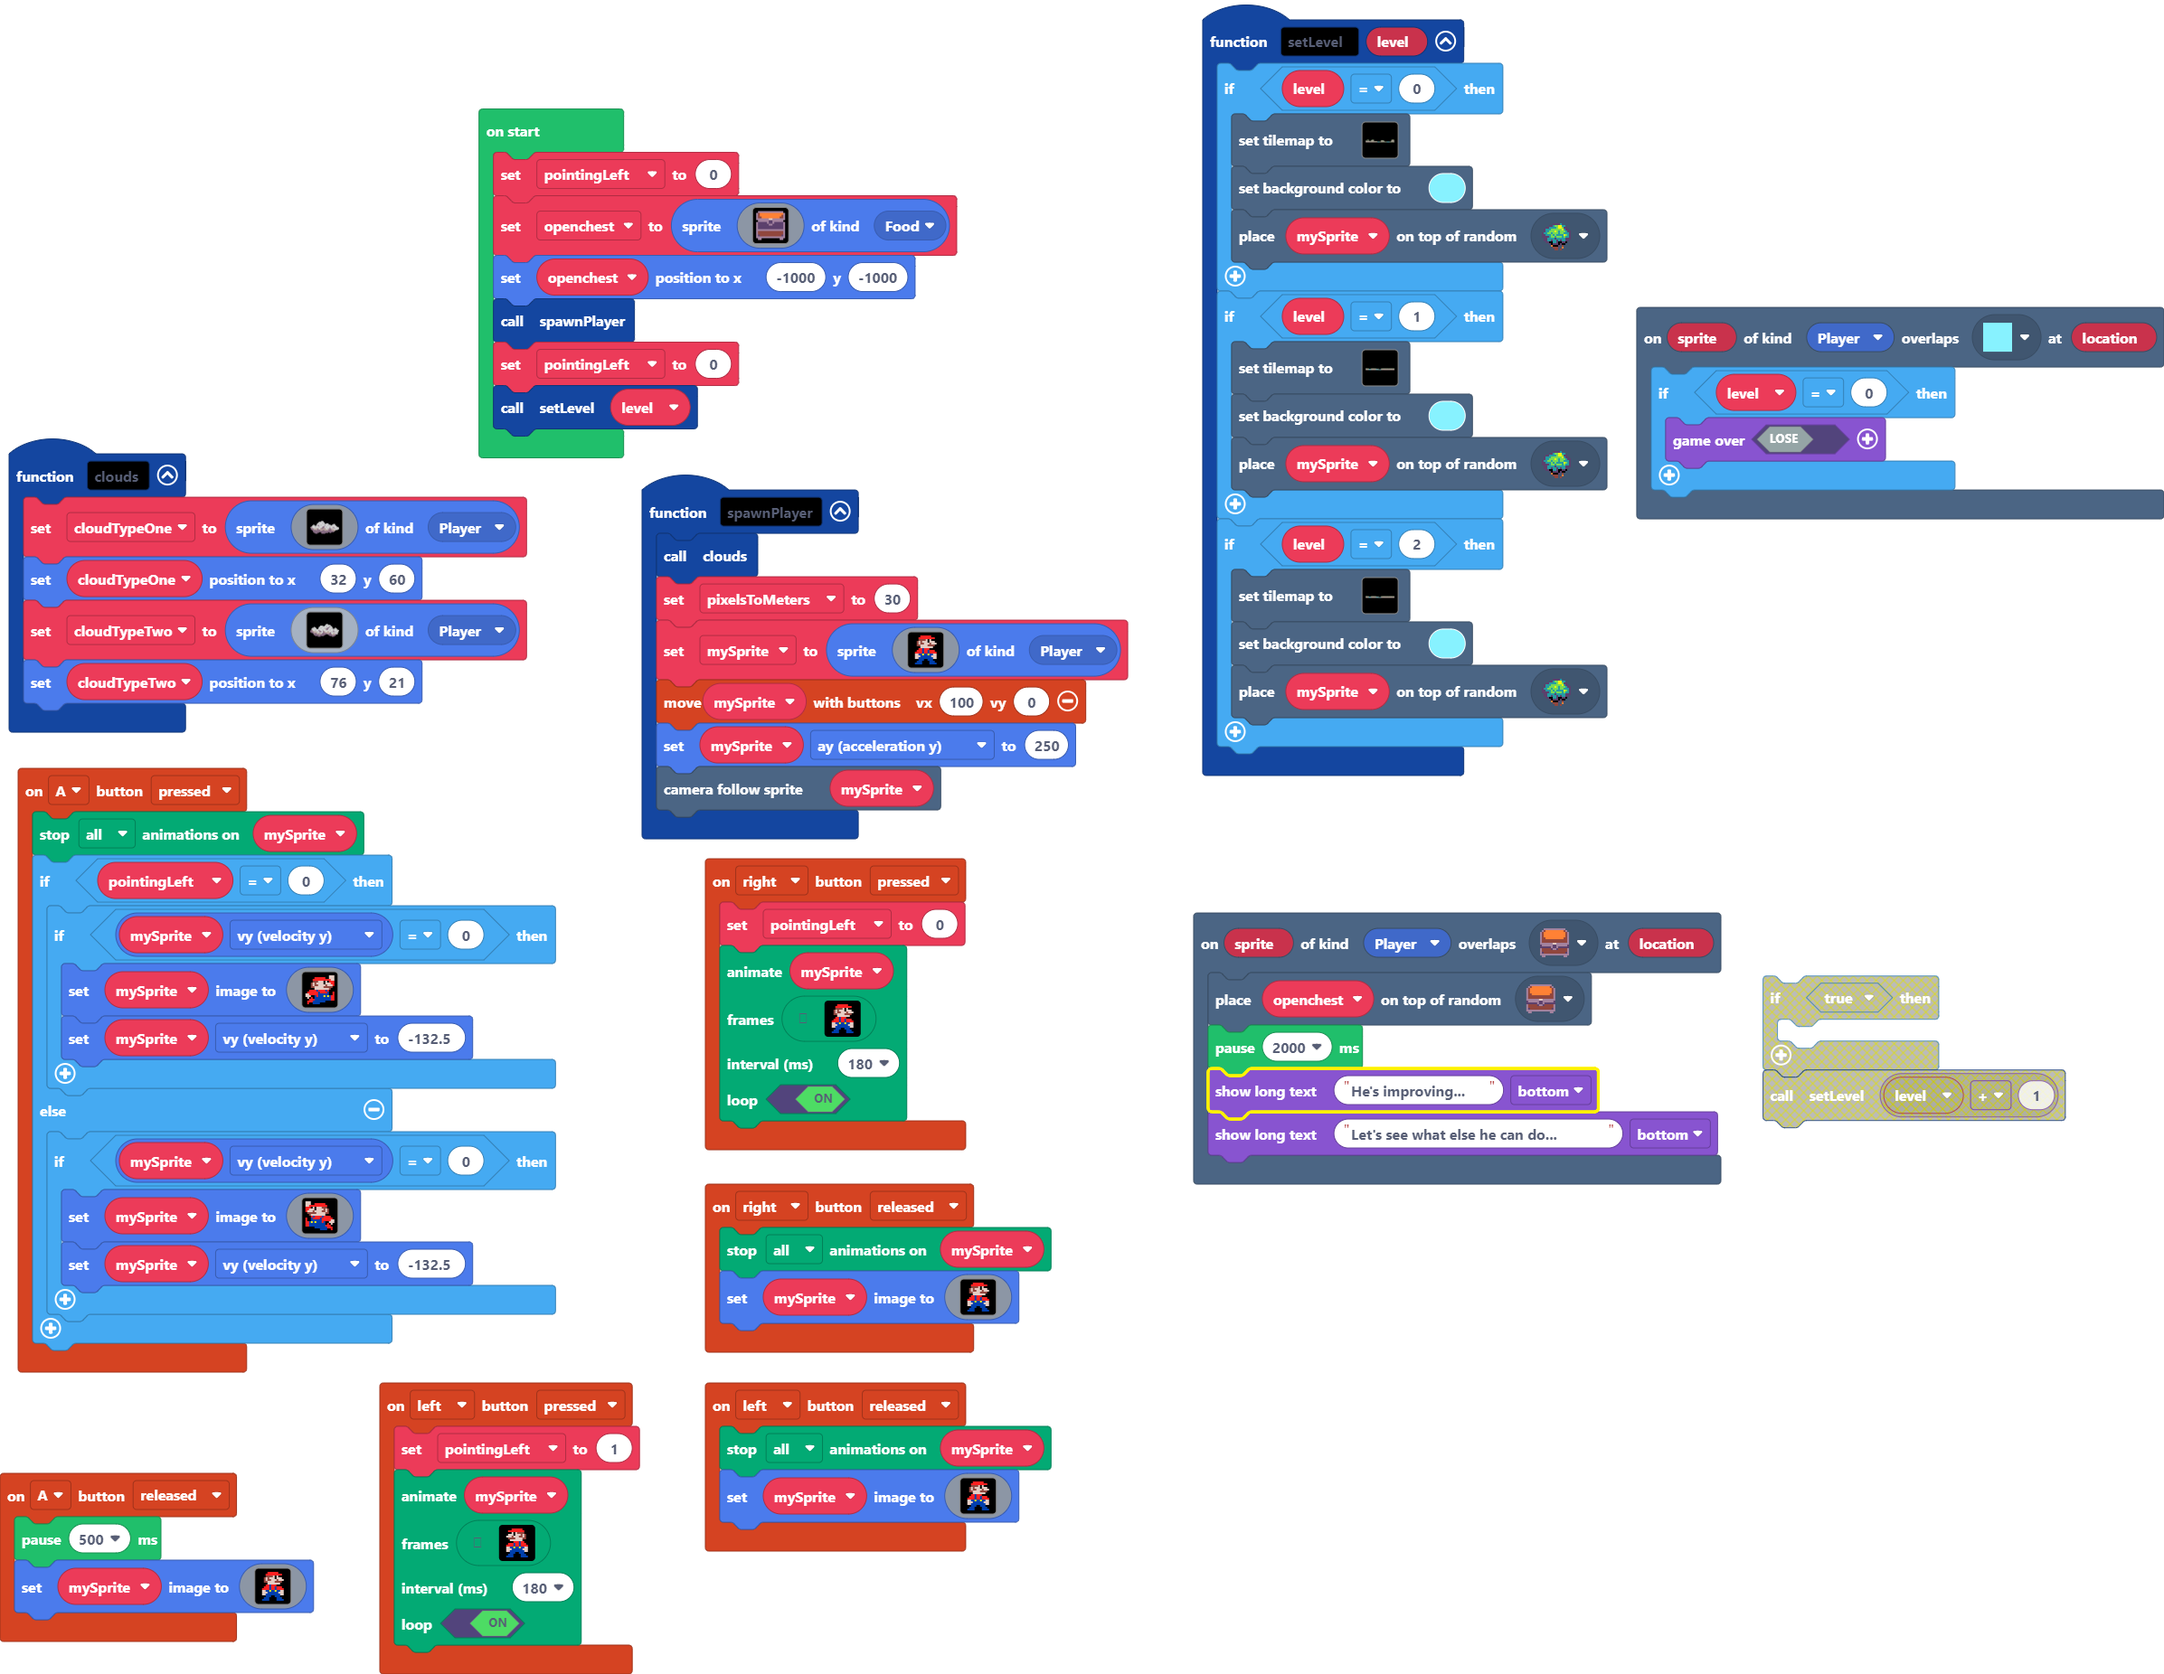
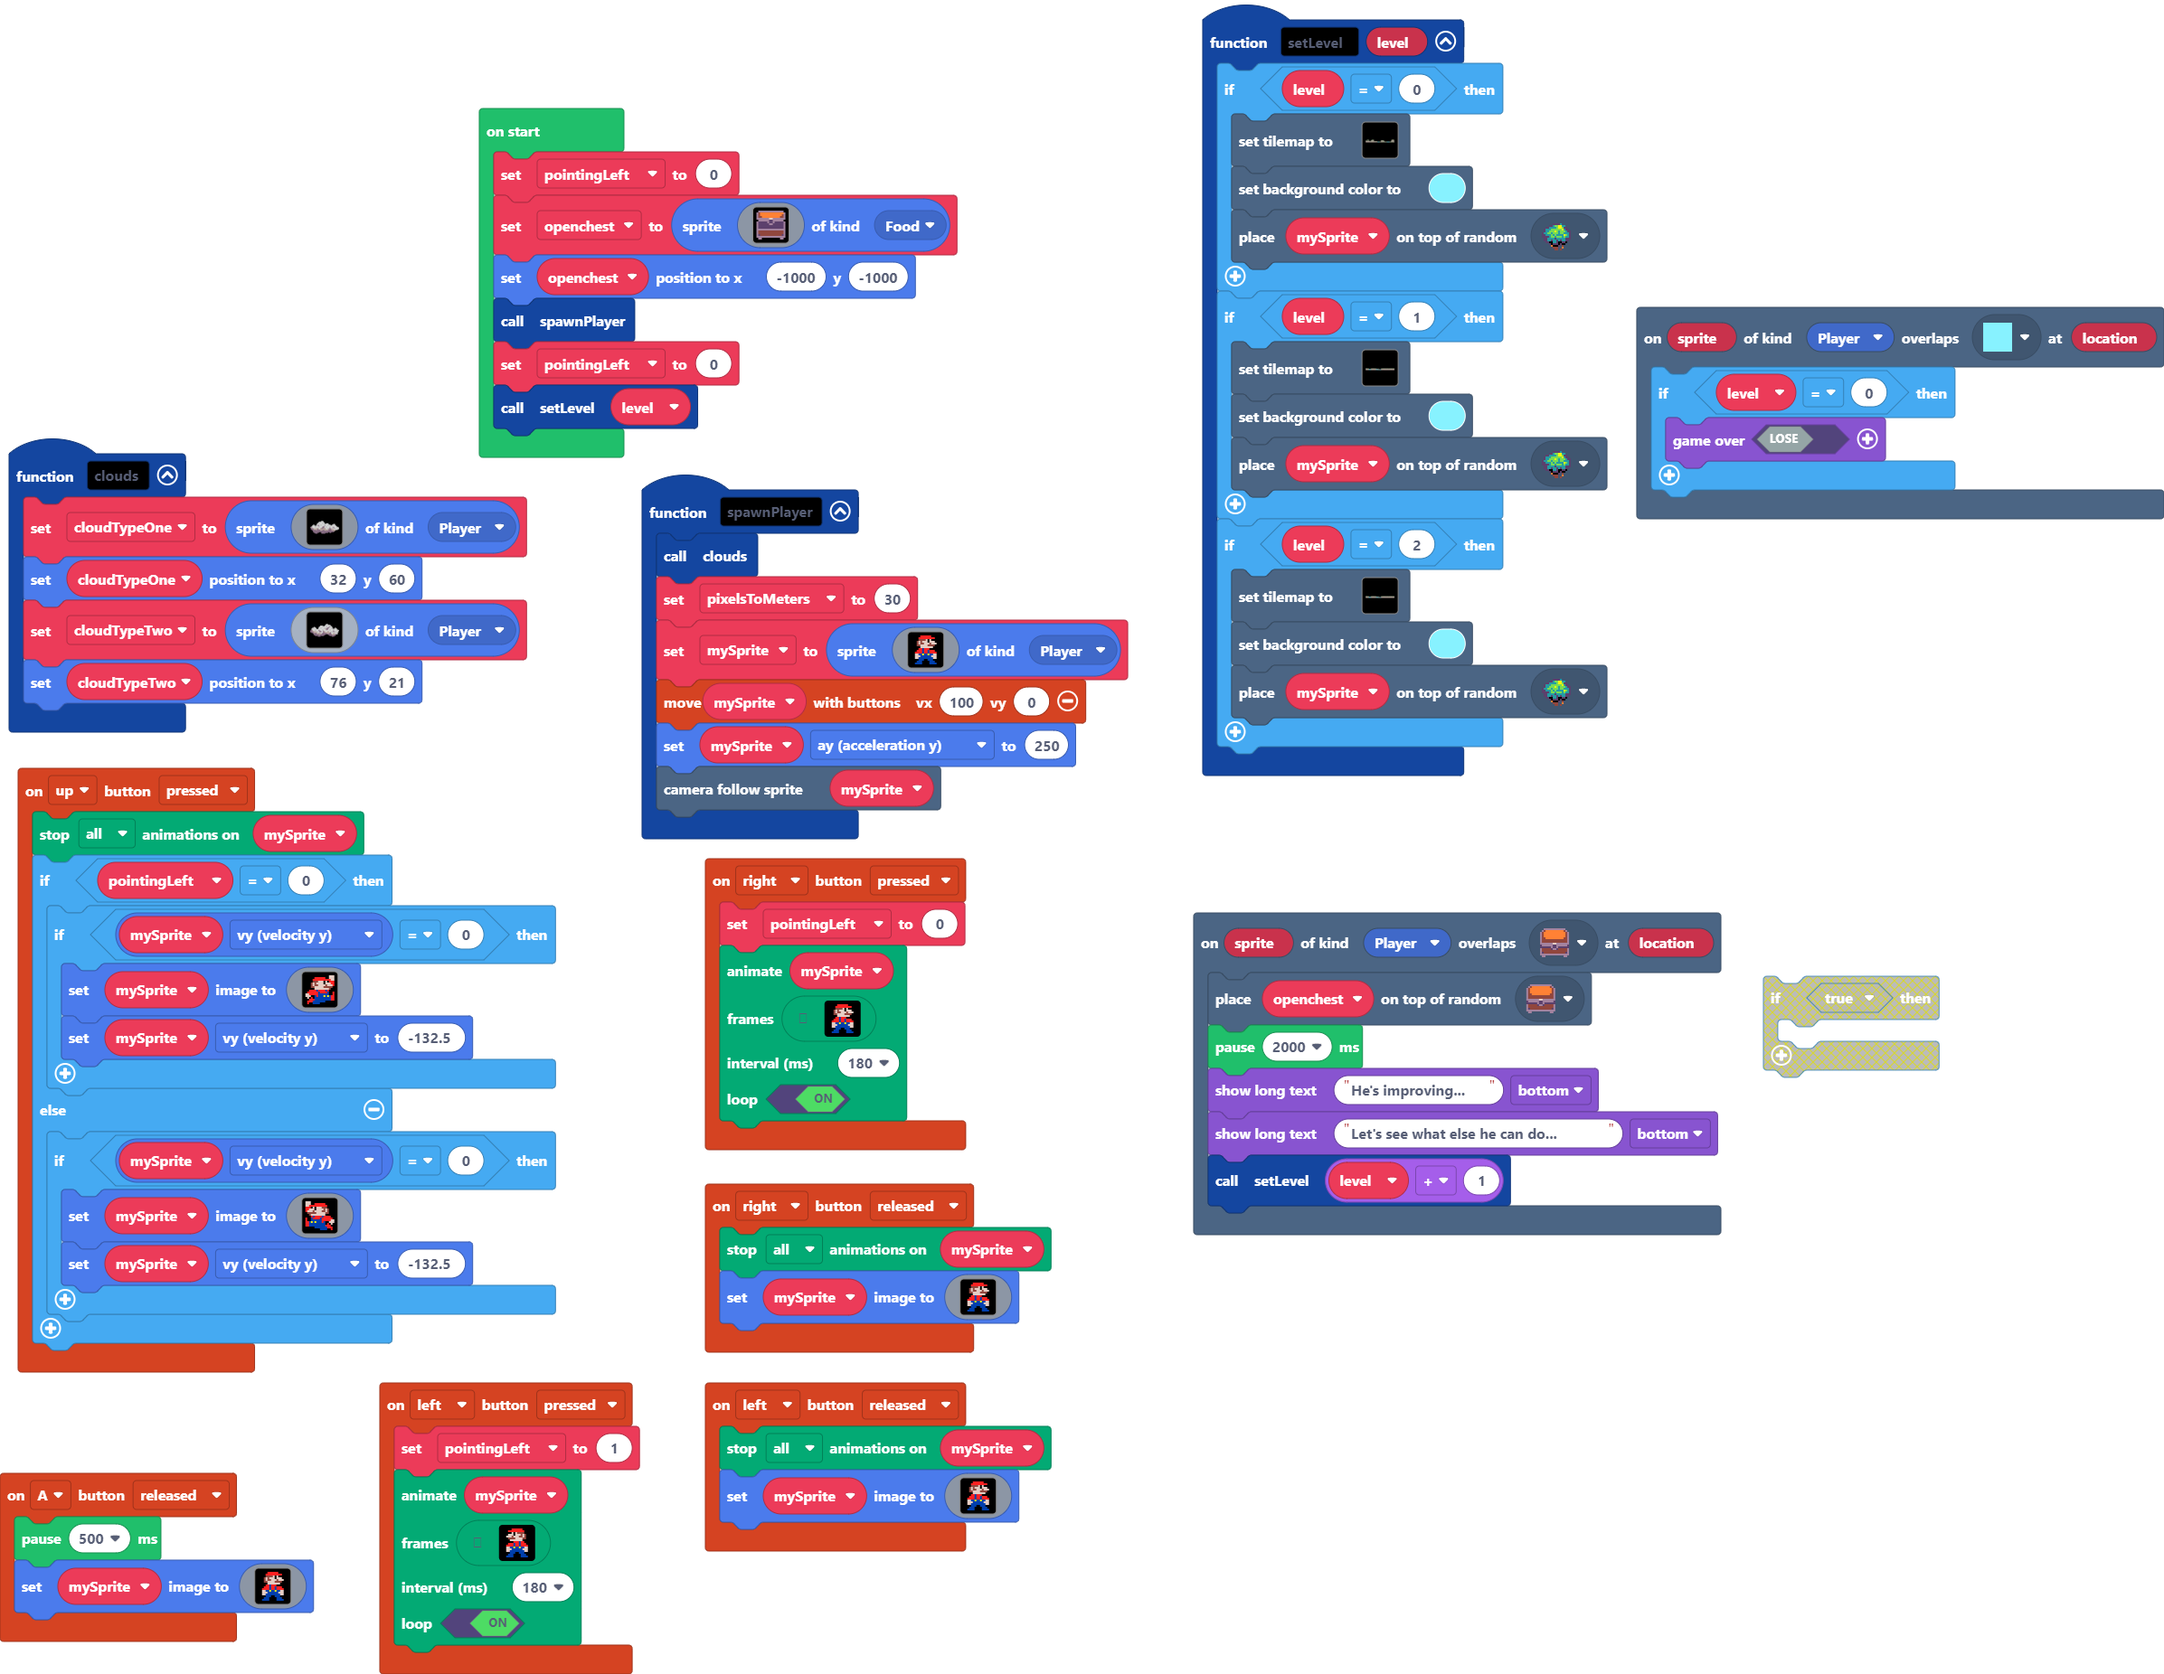
Update main.blocks, main.ts, tilemap.g.jres, tilemap.g.ts

diff --git a/tilemap.g.ts b/tilemap.g.ts
@@ -227,7 +227,7 @@ namespace myTiles {
 . . . . . . . . . . . . . . . . 
 `, [myTiles.transparency16], TileScale.Sixteen);
             case "level2":
[2 lines of base64/hex data omitted]
 ............................................................
 ............................................................
 ............................................................
@@ -236,7 +236,7 @@ namespace myTiles {
 ............................................................
 ............................................................
 2222222....2222222222.2...2.....2222222222222222222222...222
-......2....2........2.2...2.....2....................22222..
+......2....2........2.2...2.2...2....................22222..
 ......2....2........2.2...2.2...2...........................
 `, [myTiles.transparency16,myTiles.tile1,myTiles.tile2,myTiles.tile3,myTiles.tile9,sprites.castle.tilePath5,sprites.castle.tilePath2,sprites.castle.tilePath3,sprites.castle.tilePath6,sprites.castle.tilePath1,sprites.castle.tilePath4,sprites.castle.saplingOak], TileScale.Sixteen);
         }

diff --git a/main.ts b/main.ts
@@ -15,7 +15,7 @@ function setLevel (level: number) {
         tiles.placeOnRandomTile(mySprite, sprites.castle.saplingOak)
     }
 }
-controller.A.onEvent(ControllerButtonEvent.Pressed, function () {
+controller.up.onEvent(ControllerButtonEvent.Pressed, function () {
     animation.stopAnimation(animation.AnimationTypes.All, mySprite)
     if (pointingLeft == 0) {
         if (mySprite.vy == 0) {
@@ -107,6 +107,7 @@ scene.onOverlapTile(SpriteKind.Player, sprites.dungeon.chestClosed, function (sp
     pause(2000)
     game.showLongText("He's improving...", DialogLayout.Bottom)
     game.showLongText("Let's see what else he can do...", DialogLayout.Bottom)
+    setLevel(level + 1)
 })
 controller.right.onEvent(ControllerButtonEvent.Pressed, function () {
     pointingLeft = 0
